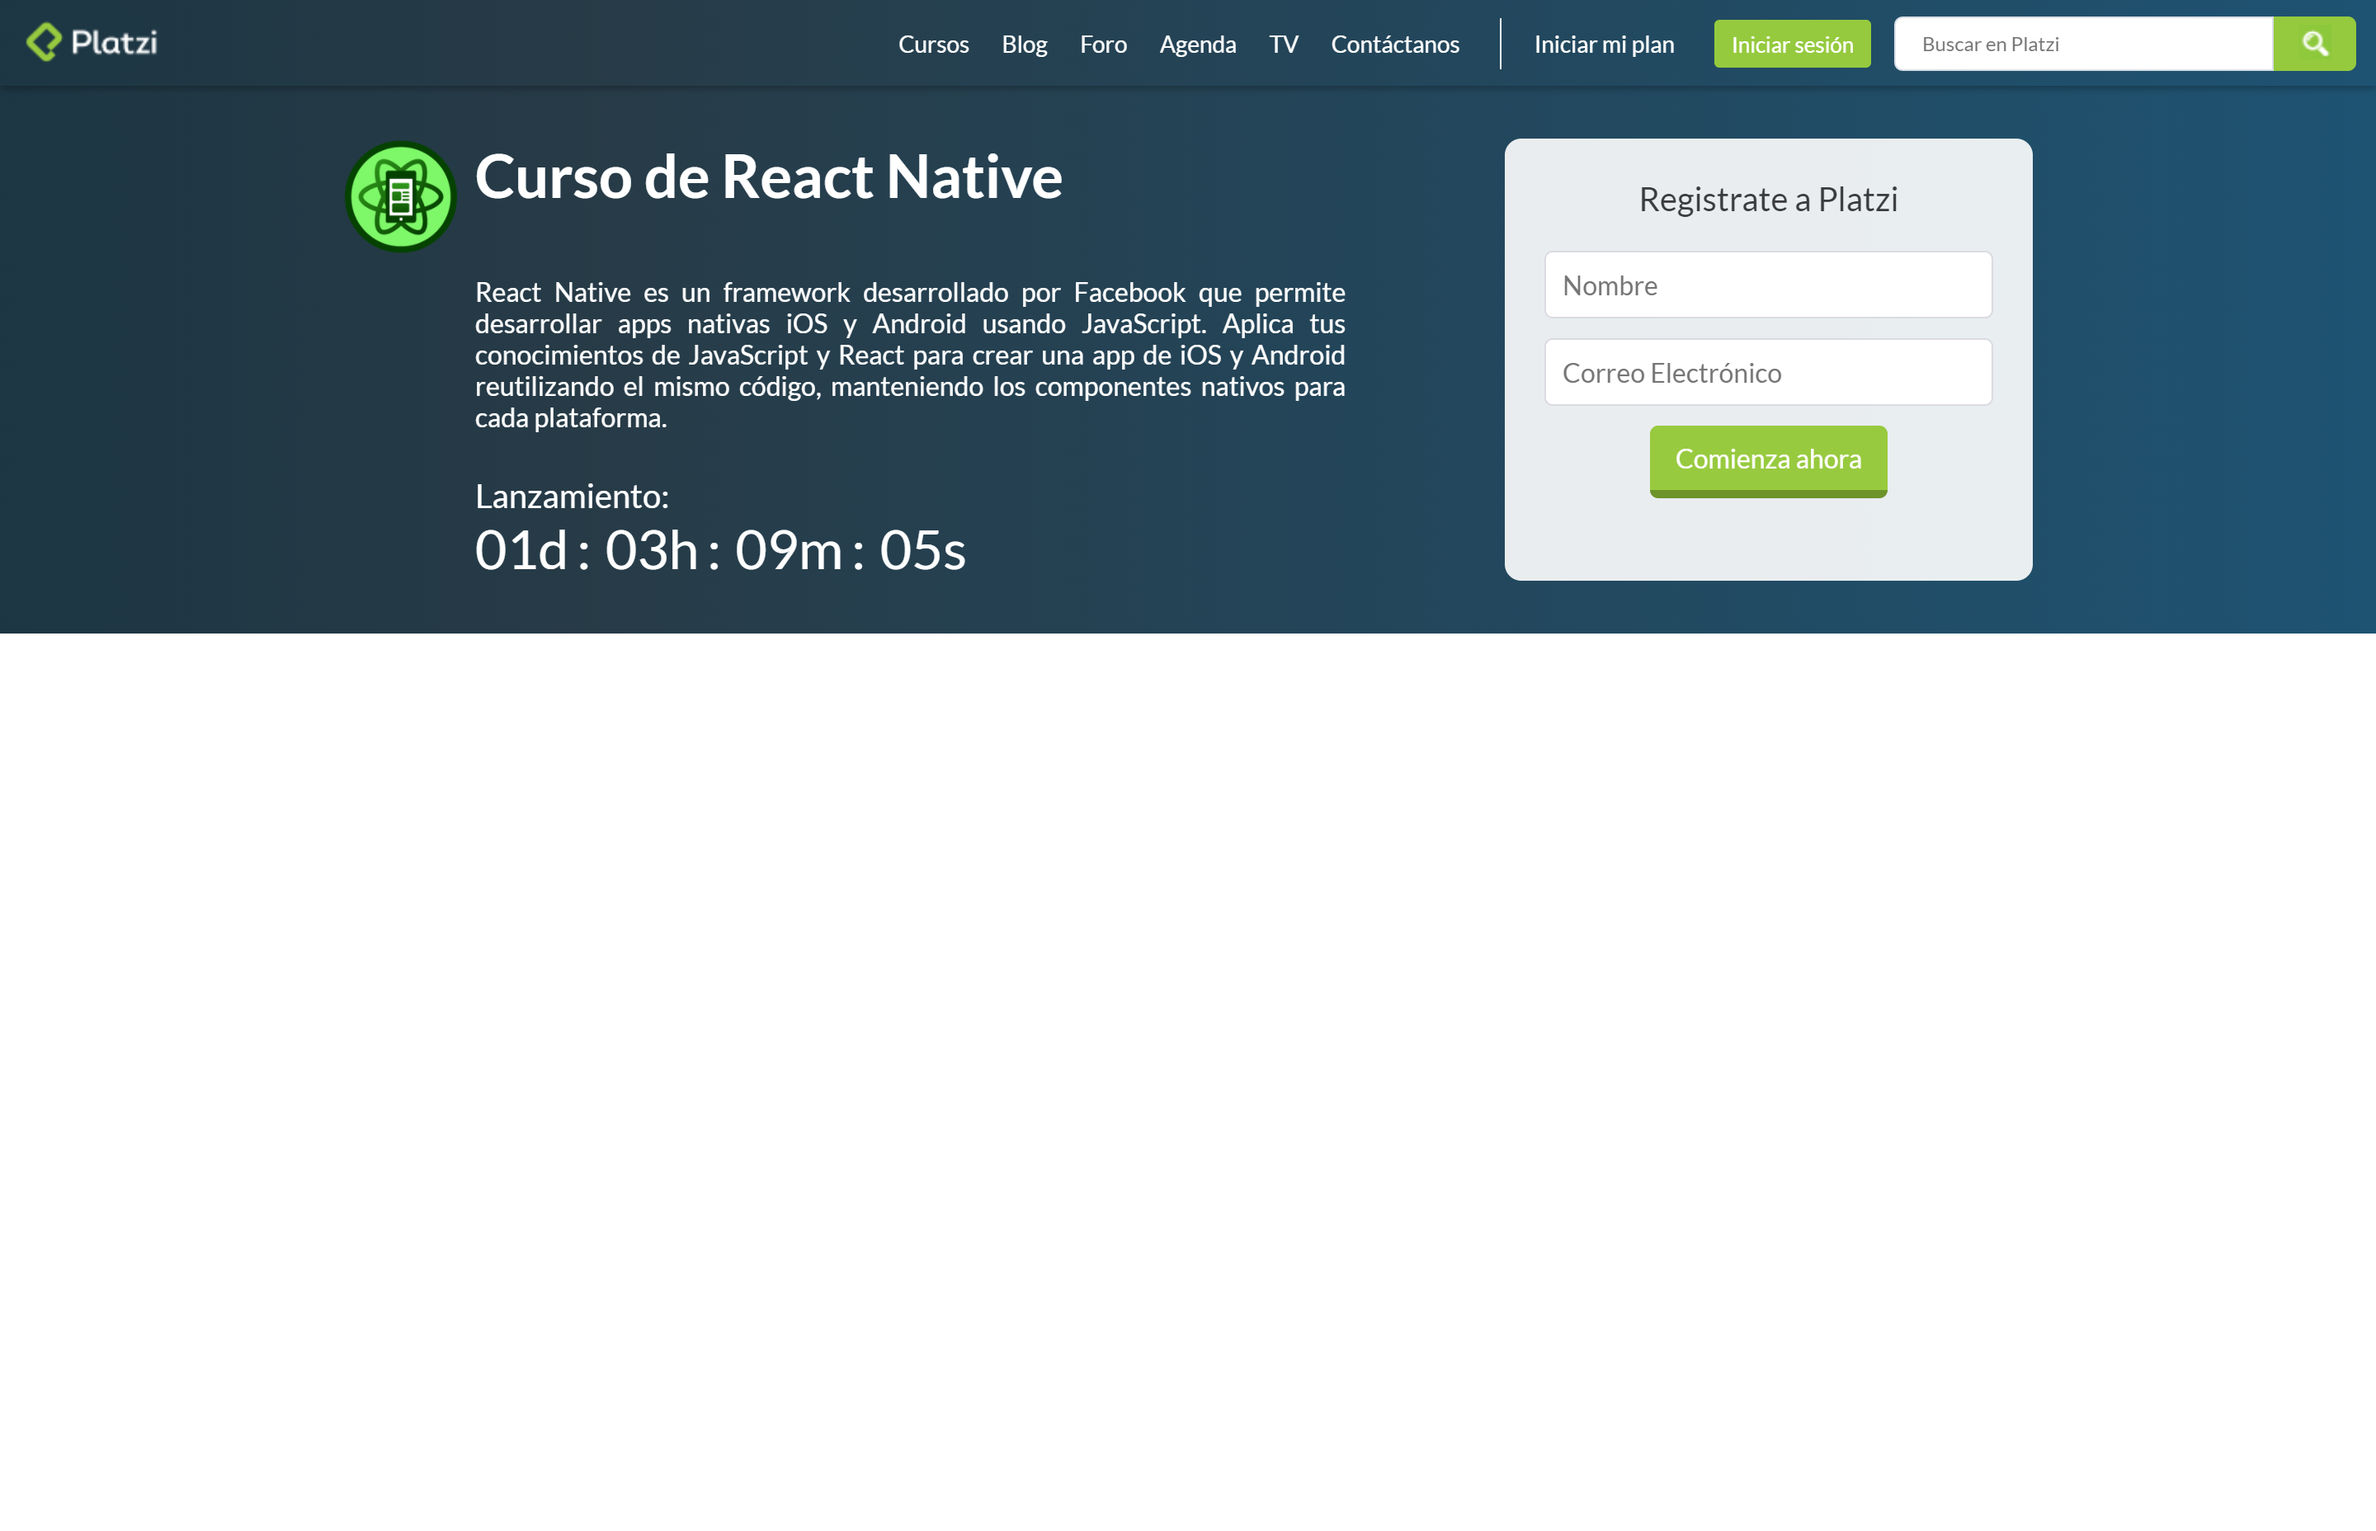
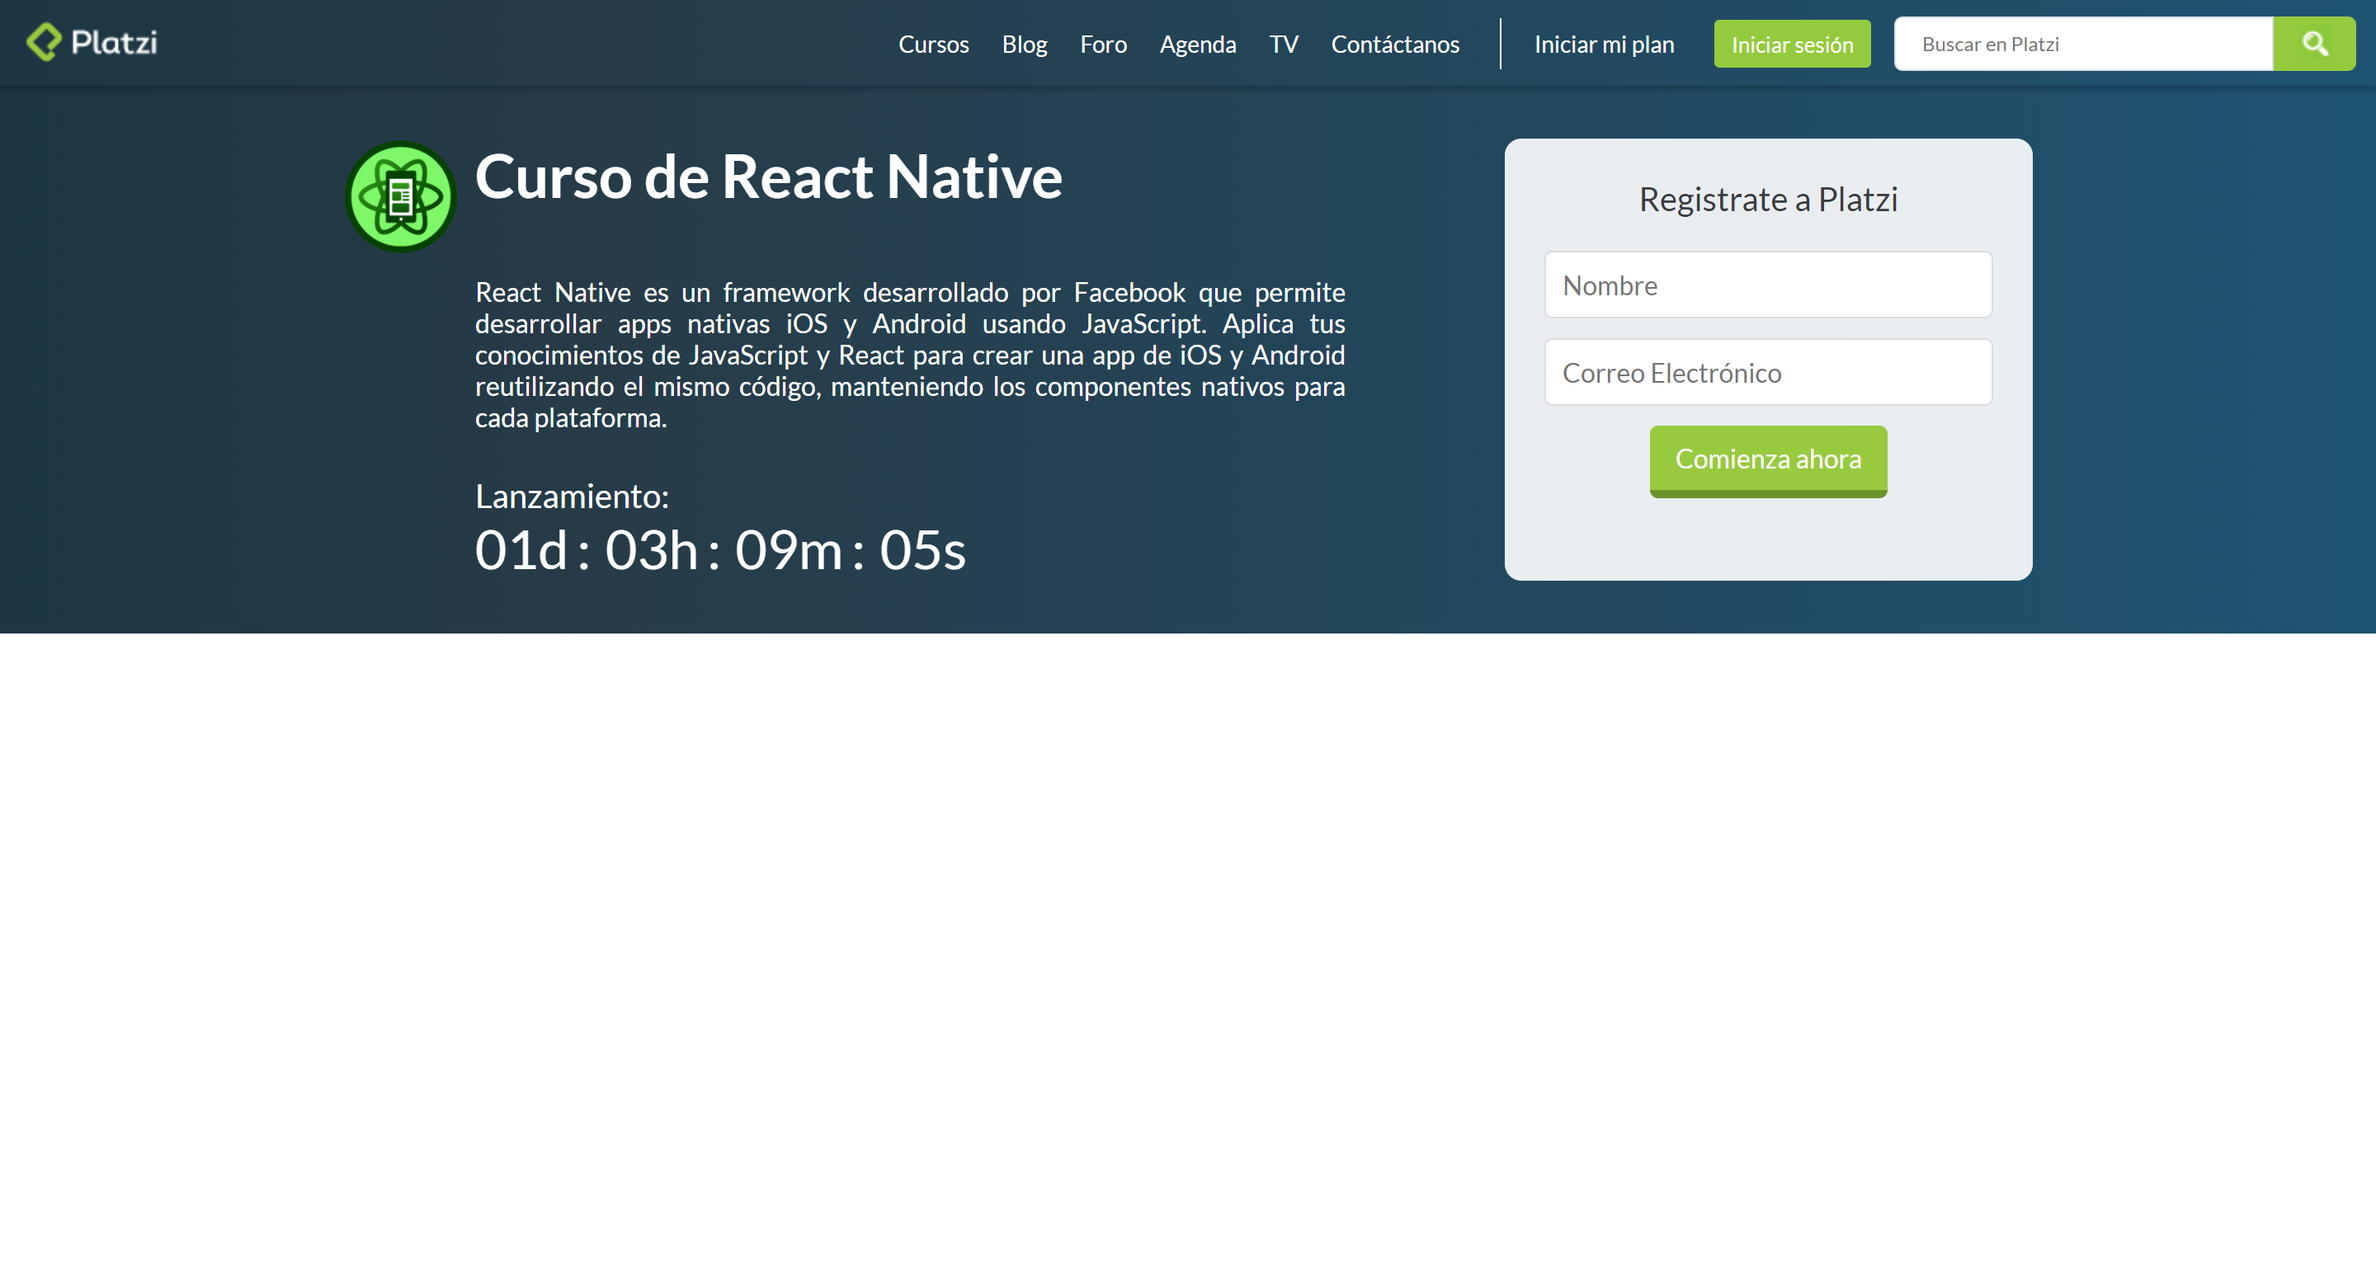
Se ajustó el tamaño de letra para medium landscape

diff --git a/css/mediaQuery.css b/css/mediaQuery.css
@@ -73,3 +73,12 @@
     margin: 0;
   }
 }
+@media (min-width: 992px) and (max-width: 1199.98px) {
+  .menu ul {
+    padding: 2px 5px;
+  }
+
+  .menu li {
+    padding: 5px 8px 5px 5px;
+  }
+}
